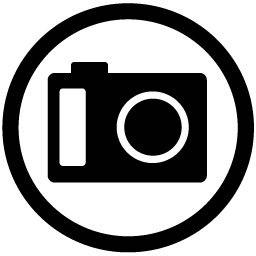
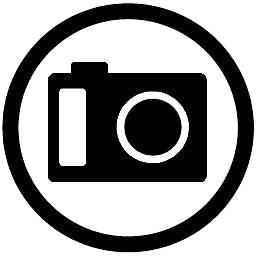
image fix

diff --git a/Pod/Classes/View/CameraCell.swift b/Pod/Classes/View/CameraCell.swift
@@ -17,9 +17,6 @@ final class CameraCell: UICollectionViewCell {
     var takePhotoIcon: UIImage? {
         didSet {
             imageView.image = takePhotoIcon
-            
-            // Apply tint to image
-            imageView.image = imageView.image?.imageWithRenderingMode(.AlwaysTemplate)
         }
     }
     
